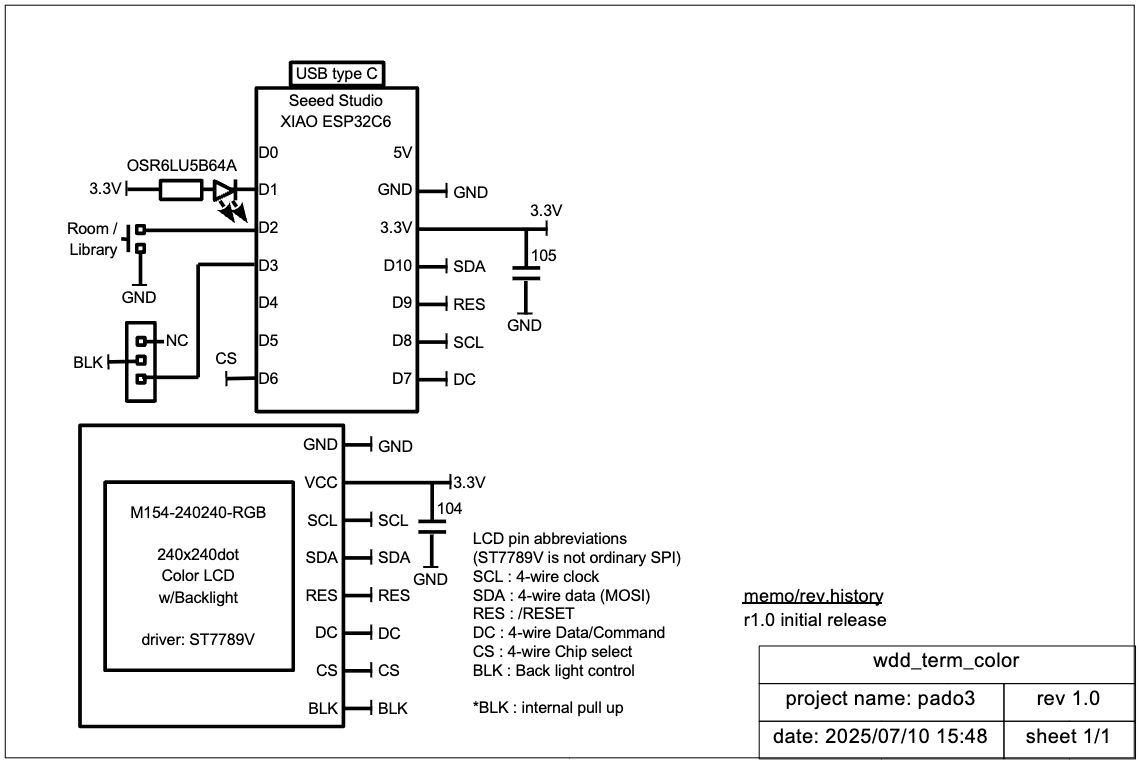
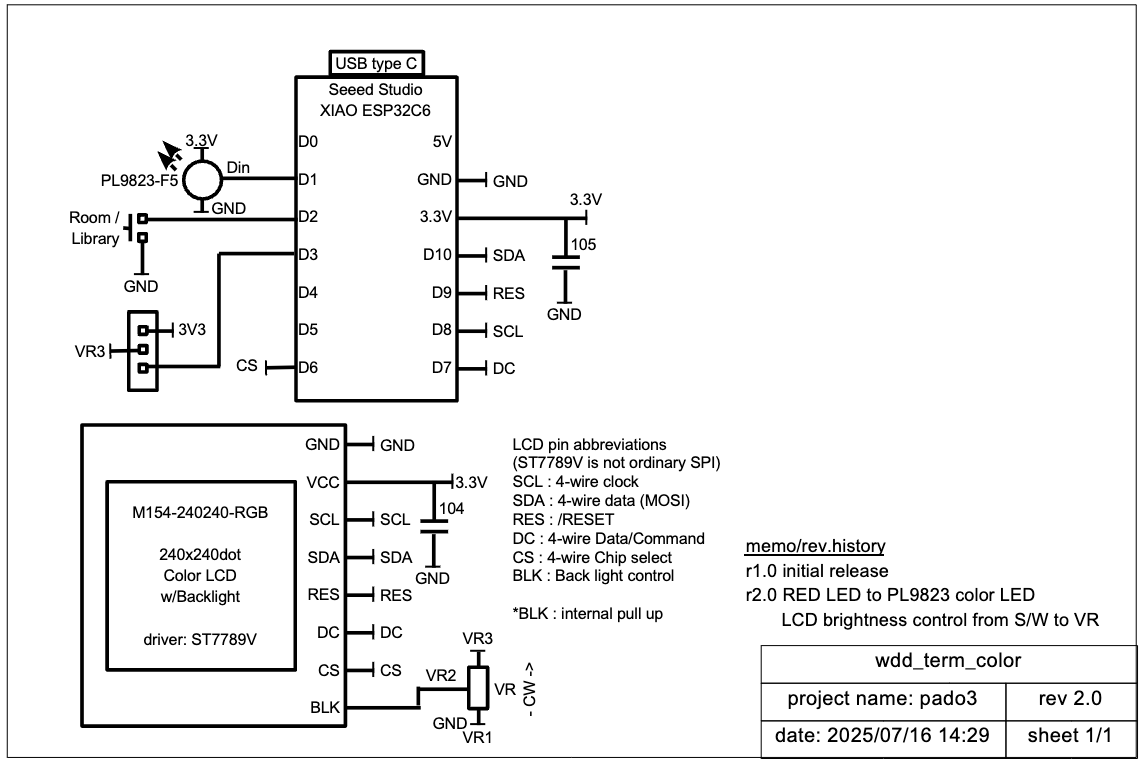
r2.0 : changes both H/W and S/W
red LED to color, LCD brightness from S/W to VR

Changed region(s): [[0.0614, 0.0604, 0.6447, 0.9961], [0.6447, 0.0, 1.0, 1.0], [0.0, 0.0, 0.0307, 0.9961]]

diff --git a/code.py b/code.py
@@ -2,30 +2,31 @@
 wdd_term_color.py
 カラー版Weather Data Display端末のCircuitPythonコード
     w/Seeed XIAO ESP32C6 by @pado3@fedibird.com
+    r2.0 2025/07/17 red LED to color, LCD brightness from S/W to VR
     r1.1 2025/07/16 refactering, tuning (docstring, brightness, etc.)
     r1.0 2025/07/10 initial release
 
 データソースの0-3行目または4-7行目を240x240LCDの240x200領域へ表示する
-WBGTレベルに応じてバックライトと文字の色を変化させる（環境省準拠）
+WBGTレベルに応じてバックライト・カラーLEDと文字の色を変化させる（環境省準拠）
 """
 import board
 import busio
 import digitalio
 import displayio
 import os
-import pwmio
 import microcontroller
-# import terminalio   # use for default font
 import time
 import watchdog
 import wifi
 from fourwire import FourWire
 from microcontroller import pin as mpin
-import adafruit_connection_manager              # lib
-import adafruit_requests                        # lib
-from adafruit_bitmap_font import bitmap_font    # lib
-from adafruit_display_text import label         # lib
-from adafruit_st7789 import ST7789              # lib
+# ここまでは標準ライブラリ。これより下はBundleから/libフォルダにコピーする
+import adafruit_connection_manager
+import adafruit_requests
+from adafruit_bitmap_font import bitmap_font
+from adafruit_display_text import label
+from adafruit_st7789 import ST7789
+import neopixel
 
 print("library import done")
 
@@ -34,18 +35,19 @@ LOOP_COUNT = 50         # web読み込み待ちのループ回数
 SW_INTERVAL = 0.2       # swチェックのインターバル, sec, 約10secループ
 WDT_TIMEOUT = 30        # ウォッチドッグタイマ, sec
 REBOOT_TIMEOUT = 20     # rebootまでの時間, sec, wdtより余裕をもって短くする
-BLK_DUTY = 10           # バックライトPWMの明るさ, %, 20=>10
-BLK_CYCLE = int(BLK_DUTY * 65535 / 100)     # PWMサイクル(16bit)
+REBOOT_WAIT = 3         # rebootの表示待ち時間
+BR_MAX = 50             # npの最大輝度、パーセント
 
-# 環境省準拠のWBGT配色, from level 0 to 5, 背景・文字
-# 背景は順に白・青・水・黄・橙・赤で、文字は青地と赤地が白・他は黒
+# 環境省準拠のWBGT配色, from level 0 to 5, 背景・文字・LED
+# 背景とLEDは白・青・水・黄・橙・赤で、文字は青地と赤地が白で他は黒
+# なお、LEDの色順はGRBで、RGB順ではないので注意
 WBGT_COLOR = [
-    [0xFFFFFF, 0x000000],
-    [0x228CFF, 0xFFFFFF],
-    [0x9FD2FF, 0x000000],
-    [0xFAF500, 0x000000],
-    [0xFF9602, 0x000000],
-    [0xFF2900, 0xFFFFFF]
+    [0xFFFFFF, 0x000000, (16, 16, 16)],
+    [0x228CFF, 0xFFFFFF, (0, 0, 64)],
+    [0x9FD2FF, 0x000000, (32, 0, 32)],
+    [0xFAF500, 0x000000, (48, 48, 0)],
+    [0xFF9602, 0x000000, (48, 96, 0)],
+    [0xFF2900, 0xFFFFFF, (0, 255, 0)]
 ]
 
 # unicode.futurab.ttf 28dotの読み込み(cpfont.bdfは再配布しない)
@@ -53,10 +55,11 @@ WBGT_COLOR = [
 print("read font : unicode.futurab.ttf 28dot")
 FONT = bitmap_font.load_font("/cpfont.bdf")
 
-# LED logic of XIAO is reversed and often confusing, so make clarify.
-# 外部LEDも同じ論理にする（A:VCC, K:D1 に接続し吸い込ませる, ESP32C6 IOL=28mA）
-LED_ON = False
+# オンボードLEDとバックライトの論理定義（XIAOのオンボは逆論理）
+LED_ON = False  # False=ON, True=OFF
 LED_OFF = True
+BLK_ON = True   # True=ON, False=OFF
+BLK_OFF = False
 
 # 無線関係のパラメータはsettings.tomlに隠蔽
 SSID = os.getenv("CIRCUITPY_WIFI_SSID")
@@ -76,25 +79,20 @@ RL_SW = digitalio.DigitalInOut(board.D2)
 RL_SW.direction = digitalio.Direction.INPUT
 RL_SW.pull = digitalio.Pull.UP
 
-# 警告用の赤LED定義.
-LEDR = digitalio.DigitalInOut(board.D1)
-LEDR.direction = digitalio.Direction.OUTPUT
-LEDR.value = LED_ON     # とりまON
+# カラーLED(neopixel, PL9823)のオブジェクト定義
+ORDER = neopixel.GRB    # pixel color channel order, PL9823はGRB
+pixel = neopixel.NeoPixel(board.D1, 1, pixel_order=ORDER)
+pixel[0] = WBGT_COLOR[0][2]     # とりま暗い白
 
 # onboard LED（黄色）がライブラリで定義されていないので、microcontrollerから直接叩く
 LEDY = digitalio.DigitalInOut(mpin.GPIO15)
 LEDY.direction = digitalio.Direction.OUTPUT
 LEDY.value = LED_ON     # とりまON
 
-# LCDバックライト定義。実機では外部SWで切り離せる（NC時はONになる）
-# 当初High/Low二値にしていたが眩しかったのでPWMに変更した。但し外部SWではHighになる問題あり
-BLK = pwmio.PWMOut(TFT_BLK, duty_cycle=BLK_CYCLE)
-"""
-# もしかしたら可変抵抗で明るさ調整するかも知れないので残しておく
+# LCDバックライト定義。実機では外部SWで常時ON。明るさは外部VRで調整する。
 BLK = digitalio.DigitalInOut(TFT_BLK)
 BLK.direction = digitalio.Direction.OUTPUT
-BLK.value = True    # とりまON
-"""
+BLK.value = BLK_ON  # とりまON
 
 # ウォッチドッグタイマ起動
 microcontroller.watchdog.timeout = WDT_TIMEOUT
@@ -109,36 +107,34 @@ RST.value = False
 time.sleep(0.1)
 RST.value = True
 time.sleep(0.1)
-displayio.release_displays()    # shold release before SPI definition
+displayio.release_displays()    # should release before SPI definition
 spi = busio.SPI(SPI_SCL, SPI_SDA)
 lcd_bus = FourWire(spi, command=TFT_DC, chip_select=TFT_CS)
 lcd = ST7789(lcd_bus, width=240, height=240, rowstart=80, rotation=90)
-# Copilotに、drawは関数内でglobal宣言する方が初期化が確実だと指摘された
-# draw = displayio.Group()
-# lcd.root_group = draw
 color_bitmap = displayio.Bitmap(240, 200, 1)
 color_palette = displayio.Palette(1)
 # Global変数はここまで
 
 
 def handle_error(message, exception=None):
-    """エラー処理の共通化.
-    エラーメッセージを表示し、例外があればその内容を表示してリブートする."""
-    microcontroller.watchdog.feed()     # wdt初期化
+    """エラーメッセージを表示し、例外があればその内容を表示してリブートする."""
+    microcontroller.watchdog.feed()     # wdtに引っかからないように初期化
     disp_1line(4, message)
     if exception:
         print(f"❌ {type(exception).__name__}: {exception}")
     # 前にはWDTに任せていたが、コードが汚くなるので待ち時間を独立にした
-    print(f"reset in {REBOOT_TIMEOUT}sec")
-    time.sleep(REBOOT_TIMEOUT)
+    print(f"reboot in {REBOOT_TIMEOUT}sec")
+    time.sleep(REBOOT_TIMEOUT - REBOOT_WAIT)
     disp_1line(3, "reboot now")     # この描画は再起動まで残る
+    time.sleep(REBOOT_WAIT)
     microcontroller.reset()
 
 
 def stoi(text):
     """文字列を整数に変換するにあたり、データエラーが出がちなので関数化した.
     パラメータは文字列で、戻り値は整数.
-    文字列が整数に変換できない場合は、エラーメッセージを表示してリブートする."""
+    文字列が整数に変換できない場合は、エラーメッセージを表示してリブートする.
+    """
     try:
         value = int(text)
     except ValueError as e:     # getしたtextが異常だと、ここに落ちる
@@ -149,10 +145,11 @@ def stoi(text):
 
 def get_data():
     """宅内ネットワークに接続し、取得時分+温湿度+WBGTのデータをもらってくる.
-    取得するデータは4行一組x(室内・室外)の2組で、
-    1行目は場所（室内）と時分、2行目は温度と湿度、3行目は暑さ指数、4行目はWBGTレベル、
-    5行目は場所（室外）と時分、6行目は温度と湿度、7行目は暑さ指数、8行目はWBGTレベル。
-    AP接続できないかデータ取得できない場合はメッセージを出してリブートする."""
+    取得するデータは4行一組x(室内・室外)の2組.
+    室内：1行目に場所と時分、2行目に温度と湿度、3行目に暑さ指数、4行目にWBGTレベル
+    室外：5行目に場所と時分、6行目に温度と湿度、7行目に暑さ指数、8行目にWBGTレベル.
+    AP接続できないかデータ取得できない場合はメッセージを出してリブートする.
+    """
     # Initalize wifi, Socket Pool, Request Session
     pool = adafruit_connection_manager.get_radio_socketpool(wifi.radio)
     ssl_context = adafruit_connection_manager.get_radio_ssl_context(wifi.radio)
@@ -161,7 +158,7 @@ def get_data():
         print(f"\nConnecting to {SSID}... ", end='')
         try:
             wifi.radio.connect(SSID, PASSWORD)
-        except OSError as e:
+        except Exception as e:
             handle_error("Wi-Fi error", e)
         print(f"IP address: {wifi.radio.ipv4_address}")
         rssi = wifi.radio.ap_info.rssi  # available if AP is up
@@ -170,12 +167,15 @@ def get_data():
         print("Wi-Fi is already ", end='')
     print("connected, ", end='')
     print("request data... ", end='')
-    response = requests.get(DATA_PATH)
+    try:
+        response = requests.get(DATA_PATH)
+    except Exception as e:
+        handle_error("SERVER error", e)
     print("done. ", end='')
     status = response.status_code
     print(f"request status: {status}\n")
     if status != 200:
-        handle_error("SERVER err", f"status: {status}")
+        handle_error("SERVER err")
     return response.text.splitlines()
 
 
@@ -184,30 +184,49 @@ def blk_ctrl(lvr, dat0):
     1行目のデータをもらって基本的に夜間は消すが危険時は点ける.
     lvrは室内のWBGTレベル0-5, dat0は室内の1行目のデータ.
     1行目のデータは時分（hh:mm）を含むので、そこから時間を取り出して
-    6時台〜20時台は点灯し、夜間は消灯する。但し、危険レベルでは強制的に点灯する."""
+    6時台〜20時台は点灯し、夜間は消灯する。但し、危険レベルでは強制的に点灯する.
+    """
     hhmm = dat0[5:]
     print(f"it's {hhmm}, room WBGT level {lvr}/5: backlight ", end='')
     hour = stoi(hhmm[0:2])
     if lvr == 5:    # 危険レベルの場合は強制ON
         print("on")
-        BLK.duty_cycle = BLK_CYCLE
-        # BLK.value = True    # PWMに変更する前
+        BLK.value = BLK_ON
     elif 6 <= hour and hour <= 20:  # 6時台〜20時台はON
         print("on")
-        BLK.duty_cycle = BLK_CYCLE
-        # BLK.value = True
+        BLK.value = BLK_ON
     else:
         print("off")
-        BLK.duty_cycle = 0
-        # BLK.value = False
+        BLK.value = BLK_OFF
+
+
+def np_ctrl(lvr, dat0, i):
+    """バックライトの色と明るさのコントロール.
+    1行目のデータをもらって基本的に夜間は消すが危険時は点ける.
+    lvrは室内のWBGTレベル0-5, dat0は室内の1行目のデータ, iはループカウンタ.
+    ループカウンタ中央値に向けて暗くなり最終値に向けて明るくなる関数は映えるようにした.
+    1行目のデータは時分（hh:mm）を含むので、そこから時間を取り出して
+    6時台〜20時台は点灯し、夜間は消灯する。但し、危険レベルでは強制的に点灯する.
+    """
+    hhmm = dat0[5:]
+    hour = stoi(hhmm[0:2])
+    br = BR_MAX * abs((i - (LOOP_COUNT/2))/(LOOP_COUNT/2))          # 明るさ
+    led_d = tuple([int(br*rgb/100) for rgb in WBGT_COLOR[lvr][2]])  # LED点灯色
+    np_off = (0, 0, 0)  # neopixel消灯
+    if lvr == 5:    # 危険レベルの場合は強制ON
+        pass
+    elif 6 <= hour and hour <= 20:  # 6時台〜20時台はON
+        pass
+    else:
+        led_d = np_off
+    pixel[0] = led_d
 
 
 def disp_1line(lv, text):
     """LCDに1行表示する.
-    色はWBGTレベルを流用する（基本0, エラー4, reboot3）"""
+    色はWBGTレベルを流用する（基本0, エラー4, reboot3）.
+    """
     print(f"1-line drawing, level:{lv}, text:{text}")
-    # Copilotの指摘により、関数内で初期化するように変更
-    global draw
     draw = displayio.Group()
     lcd.root_group = draw
     # background color
@@ -217,8 +236,6 @@ def disp_1line(lv, text):
     draw.append(bg_sprite)
     # Draw a label
     text_group = displayio.Group(scale=1, x=5, y=100)
-    # text_area = label.Label(
-    #     terminalio.FONT, text=text, color=WBGT_COLOR[lv][1])
     text_area = label.Label(FONT, text=text, color=WBGT_COLOR[lv][1])
     text_group.append(text_area)
     draw.append(text_group)
@@ -227,10 +244,9 @@ def disp_1line(lv, text):
 def disp_4line(lv, dats):
     """LCDに4行表示する.
     lvはWBGTレベル0-5, datsは表示するデータのリスト.
-    datsは室内または室外の4行のデータで、各行は文字列."""
+    datsは室内または室外の4行のデータで、各行は文字列.
+    """
     print(f"4-line drawing, level:{lv}, text:{dats}")
-    # Copilotの指摘により、関数内で初期化するように変更
-    global draw
     draw = displayio.Group()
     lcd.root_group = draw
     # background color
@@ -243,8 +259,6 @@ def disp_4line(lv, dats):
     print("line draw: ", end='')
     for j, dat in enumerate(dats):
         text_group = displayio.Group(scale=1, x=5, y=40+40*j)
-        # text_area = label.Label(
-        #     terminalio.FONT, text=dat, color=WBGT_COLOR[lv][1])
         text_area = label.Label(FONT, text=dat, color=WBGT_COLOR[lv][1])
         text_group.append(text_area)
         draw.append(text_group)
@@ -254,26 +268,20 @@ def disp_4line(lv, dats):
 
 def wdd_term_loop(dats_prev):
     """動作ループ、実質的なメインルーチン.
-    データ取得してLCDの色とLEDの輝度を決め、値が変わっていたら表示更新する"""
+    データ取得してLCDの色とLEDの輝度を決め、値が変わっていたら表示更新する.
+    """
     microcontroller.watchdog.feed()     # wdt初期化
     dat = get_data()
     lvr = stoi(dat[3][7])   # ROOM WBGT level 0-5
     blk_ctrl(lvr, dat[0])   # 危険レベルの場合と日中は点灯する
-    # ループ内に処理時間が入るので、全然時間管理になっていなかった
-    # for i in range(read_period / sw_interval):  # ex. 10s/0.1s=100times
-    # ちゃんと時間管理しようとするなら、こうすべき
-    # time_prev = time.time()
-    # while time.time() - time_prev < READ_PERIOD:
-    # ただ、時間管理しようとしても中途半端でしっくりこず、回数にすることで明確化
     for i in range(LOOP_COUNT):
-        # 室内が危険レベルの時は点滅させる（オンボードLEDは見えないけれど）
+        # 室内が危険レベルの時はオンボードLEDを点滅させる
         if 5 == lvr:
             LEDY.value = not LEDY.value
-            LEDR.value = not LEDY.value     # 交互に点ける（お遊びです）
         else:
             LEDY.value = LED_OFF
-            LEDR.value = LED_OFF
-        # print(f"delta:{time.time() - time_prev}, peri:{READ_PERIOD}")
+        # カラーLEDを室内WBGTに応じた色で明滅させる。但し夜間は消す
+        np_ctrl(lvr, dat[0], i)
         # データが室内・室外の順なので、室外=FalseのSW論理を反転させて用いる
         rl = not RL_SW.value
         dats = dat[(4*rl):(4+4*rl)]     # 室内0-3行目、室外4-7行目
@@ -286,7 +294,6 @@ def wdd_term_loop(dats_prev):
             lvd = stoi(dat[3+4*rl][7])  # 表示データのWBGT level
             disp_4line(lvd, dats)
         time.sleep(SW_INTERVAL)
-    # print(time.time(), end=' ')
     print(f"\n-=-=-=-=-=-=-=-=-=-=-=-=-=-=- at {time.time()}")
     return dats_prev    # 最新の表示データを返す
 
@@ -295,7 +302,7 @@ def wdd_term_loop(dats_prev):
 def main():
     disp_1line(0, " INITIALIZE")
     print("into infinite loop")
-    dats_prev = ""  # 前の表示データ
+    dats_prev = []  # 前の表示データ
     while True:
         dats_prev = wdd_term_loop(dats_prev)
 
